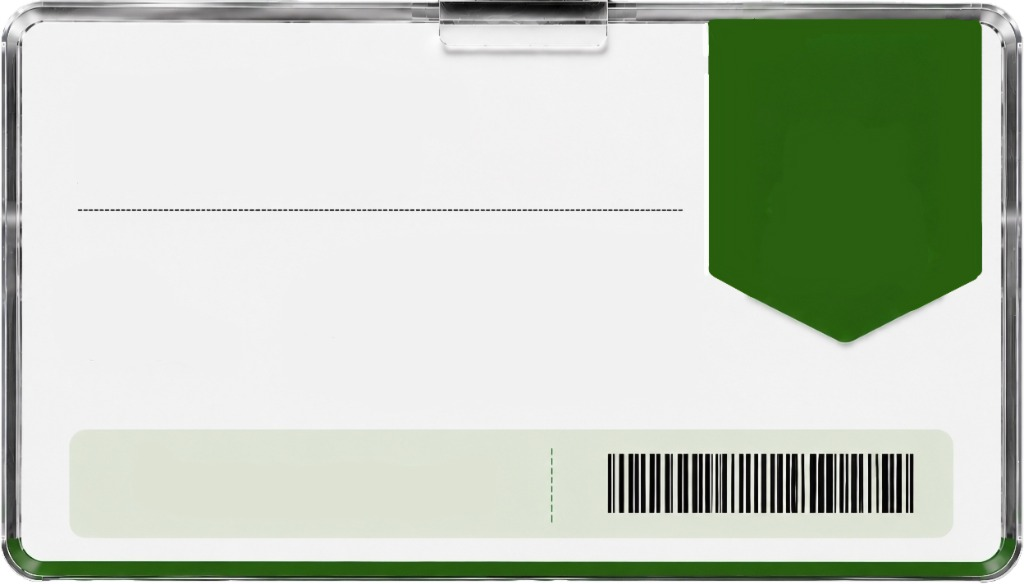
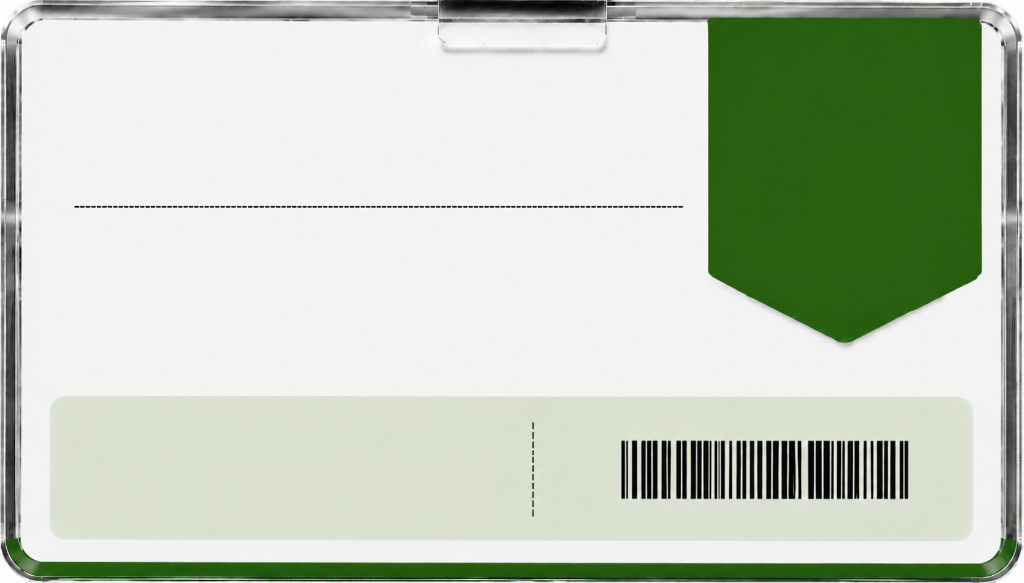
Deploy: Updated Section 3 ESL template artwork asset (esl-shelf-label.jpg) with high-res PNG image & re-verified exact zone limits (Build 202608062054)

diff --git a/frontend/customer/css/scanner-v2.css b/frontend/customer/css/scanner-v2.css
@@ -569,13 +569,13 @@
   margin-left: 3px;
 }
 
-/* Zone 5 — Top Right Green Ribbon Badge (Calculated Coordinates for New Artwork) */
+/* Zone 5 — Top Right Green Ribbon Badge (Calculated Coordinates for High-Res Artwork) */
 .esl-badge-zone {
   position: absolute;
-  top: 2.8%;
-  right: 3.8%;
-  width: 28%;
-  height: 58%;
+  top: 3.0%;
+  right: 4.2%;
+  width: 26.8%;
+  height: 57%;
   display: flex;
   flex-direction: column;
   align-items: center;

diff --git a/frontend/customer/js/build-env.js b/frontend/customer/js/build-env.js
@@ -1,10 +1,10 @@
 // Automatically generated build metadata
 window.APP_BUILD = {
   version: "0.1.0",
-  build: "202608062045",
-  commit: "be954b0",
+  build: "202608062054",
+  commit: "7f796c7",
   branch: "main",
-  buildTime: "2026-08-06T20:45:00.691Z",
+  buildTime: "2026-08-06T20:54:54.203Z",
   environment: "production",
   serviceWorkerEnabled: true
 };

diff --git a/frontend/customer/index.html b/frontend/customer/index.html
@@ -11,7 +11,7 @@
   <!-- html5-qrcode library for barcode camera decoding -->
   <script src="js/libs/html5-qrcode.min.js"></script>
   <script src="js/scanner.js"></script>
-  <script>window.HTML_BUILD = "202608062045";</script>
+  <script>window.HTML_BUILD = "202608062054";</script>
 </head>
 <body>
   <div class="app-shell">

diff --git a/frontend/customer/sw.js b/frontend/customer/sw.js
@@ -1,4 +1,4 @@
-const CACHE_NAME = '78pricecheck-202608062045';
+const CACHE_NAME = '78pricecheck-202608062054';
 const ASSETS_TO_CACHE = [
   './',
   './index.html',
